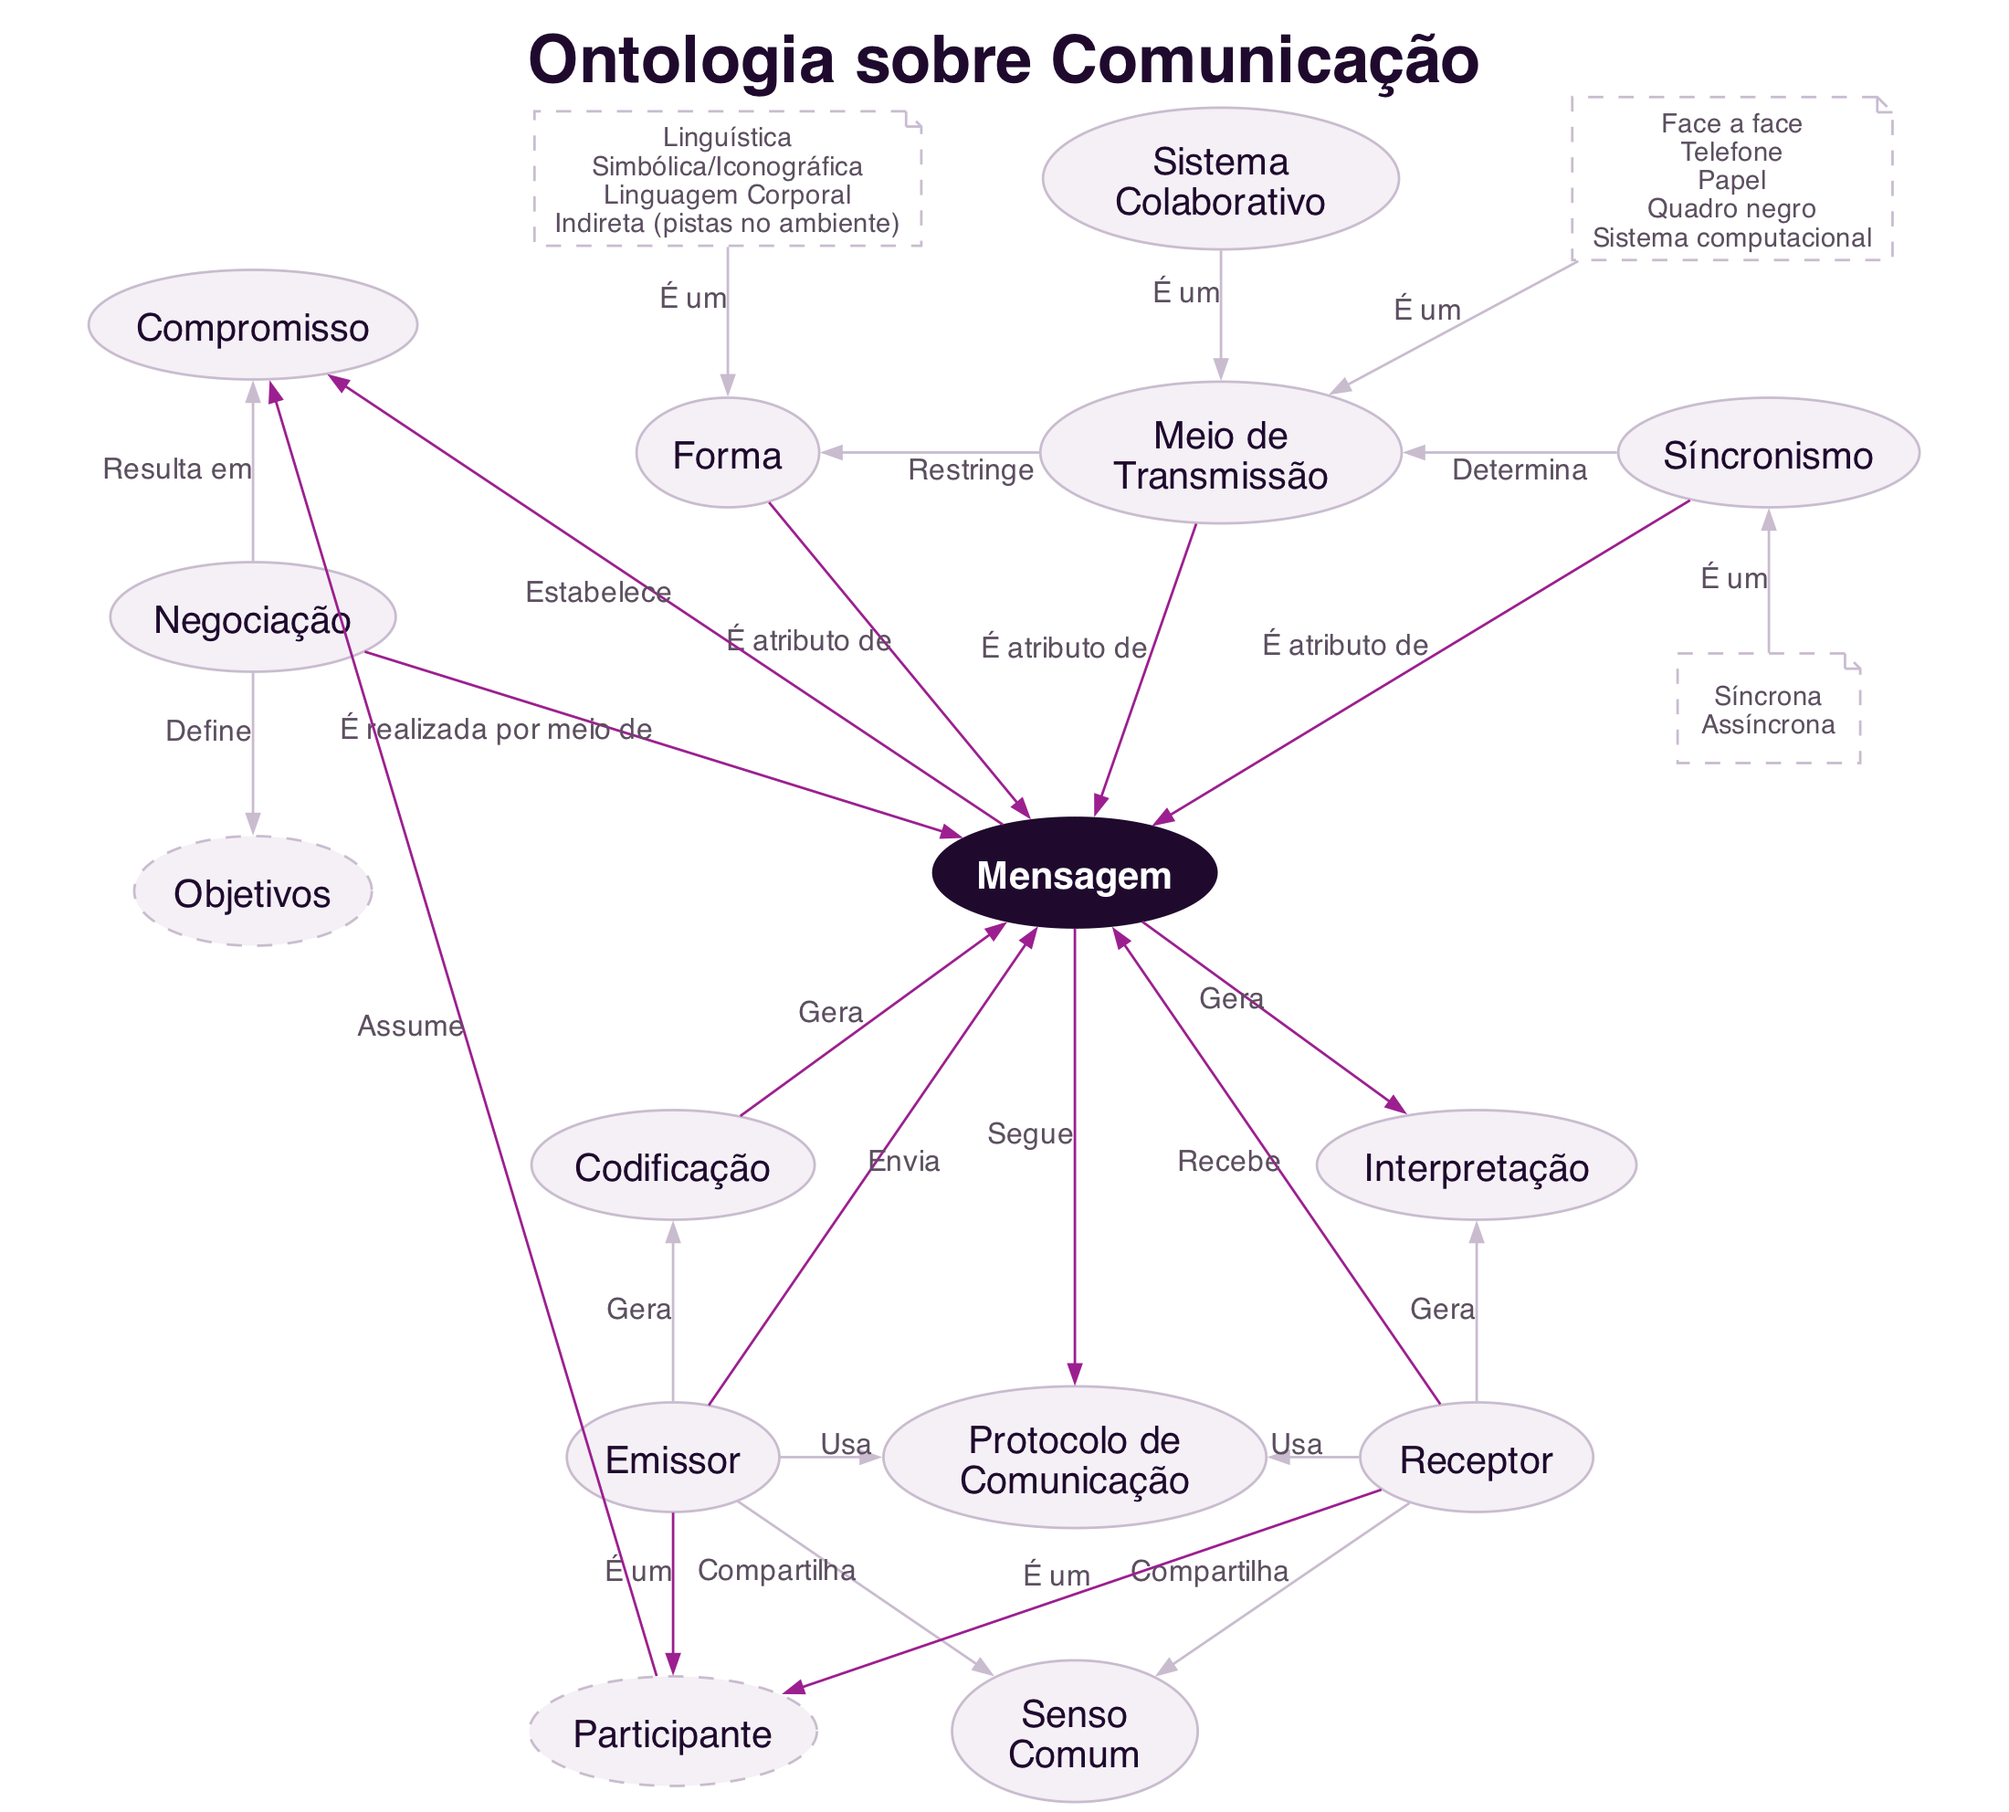
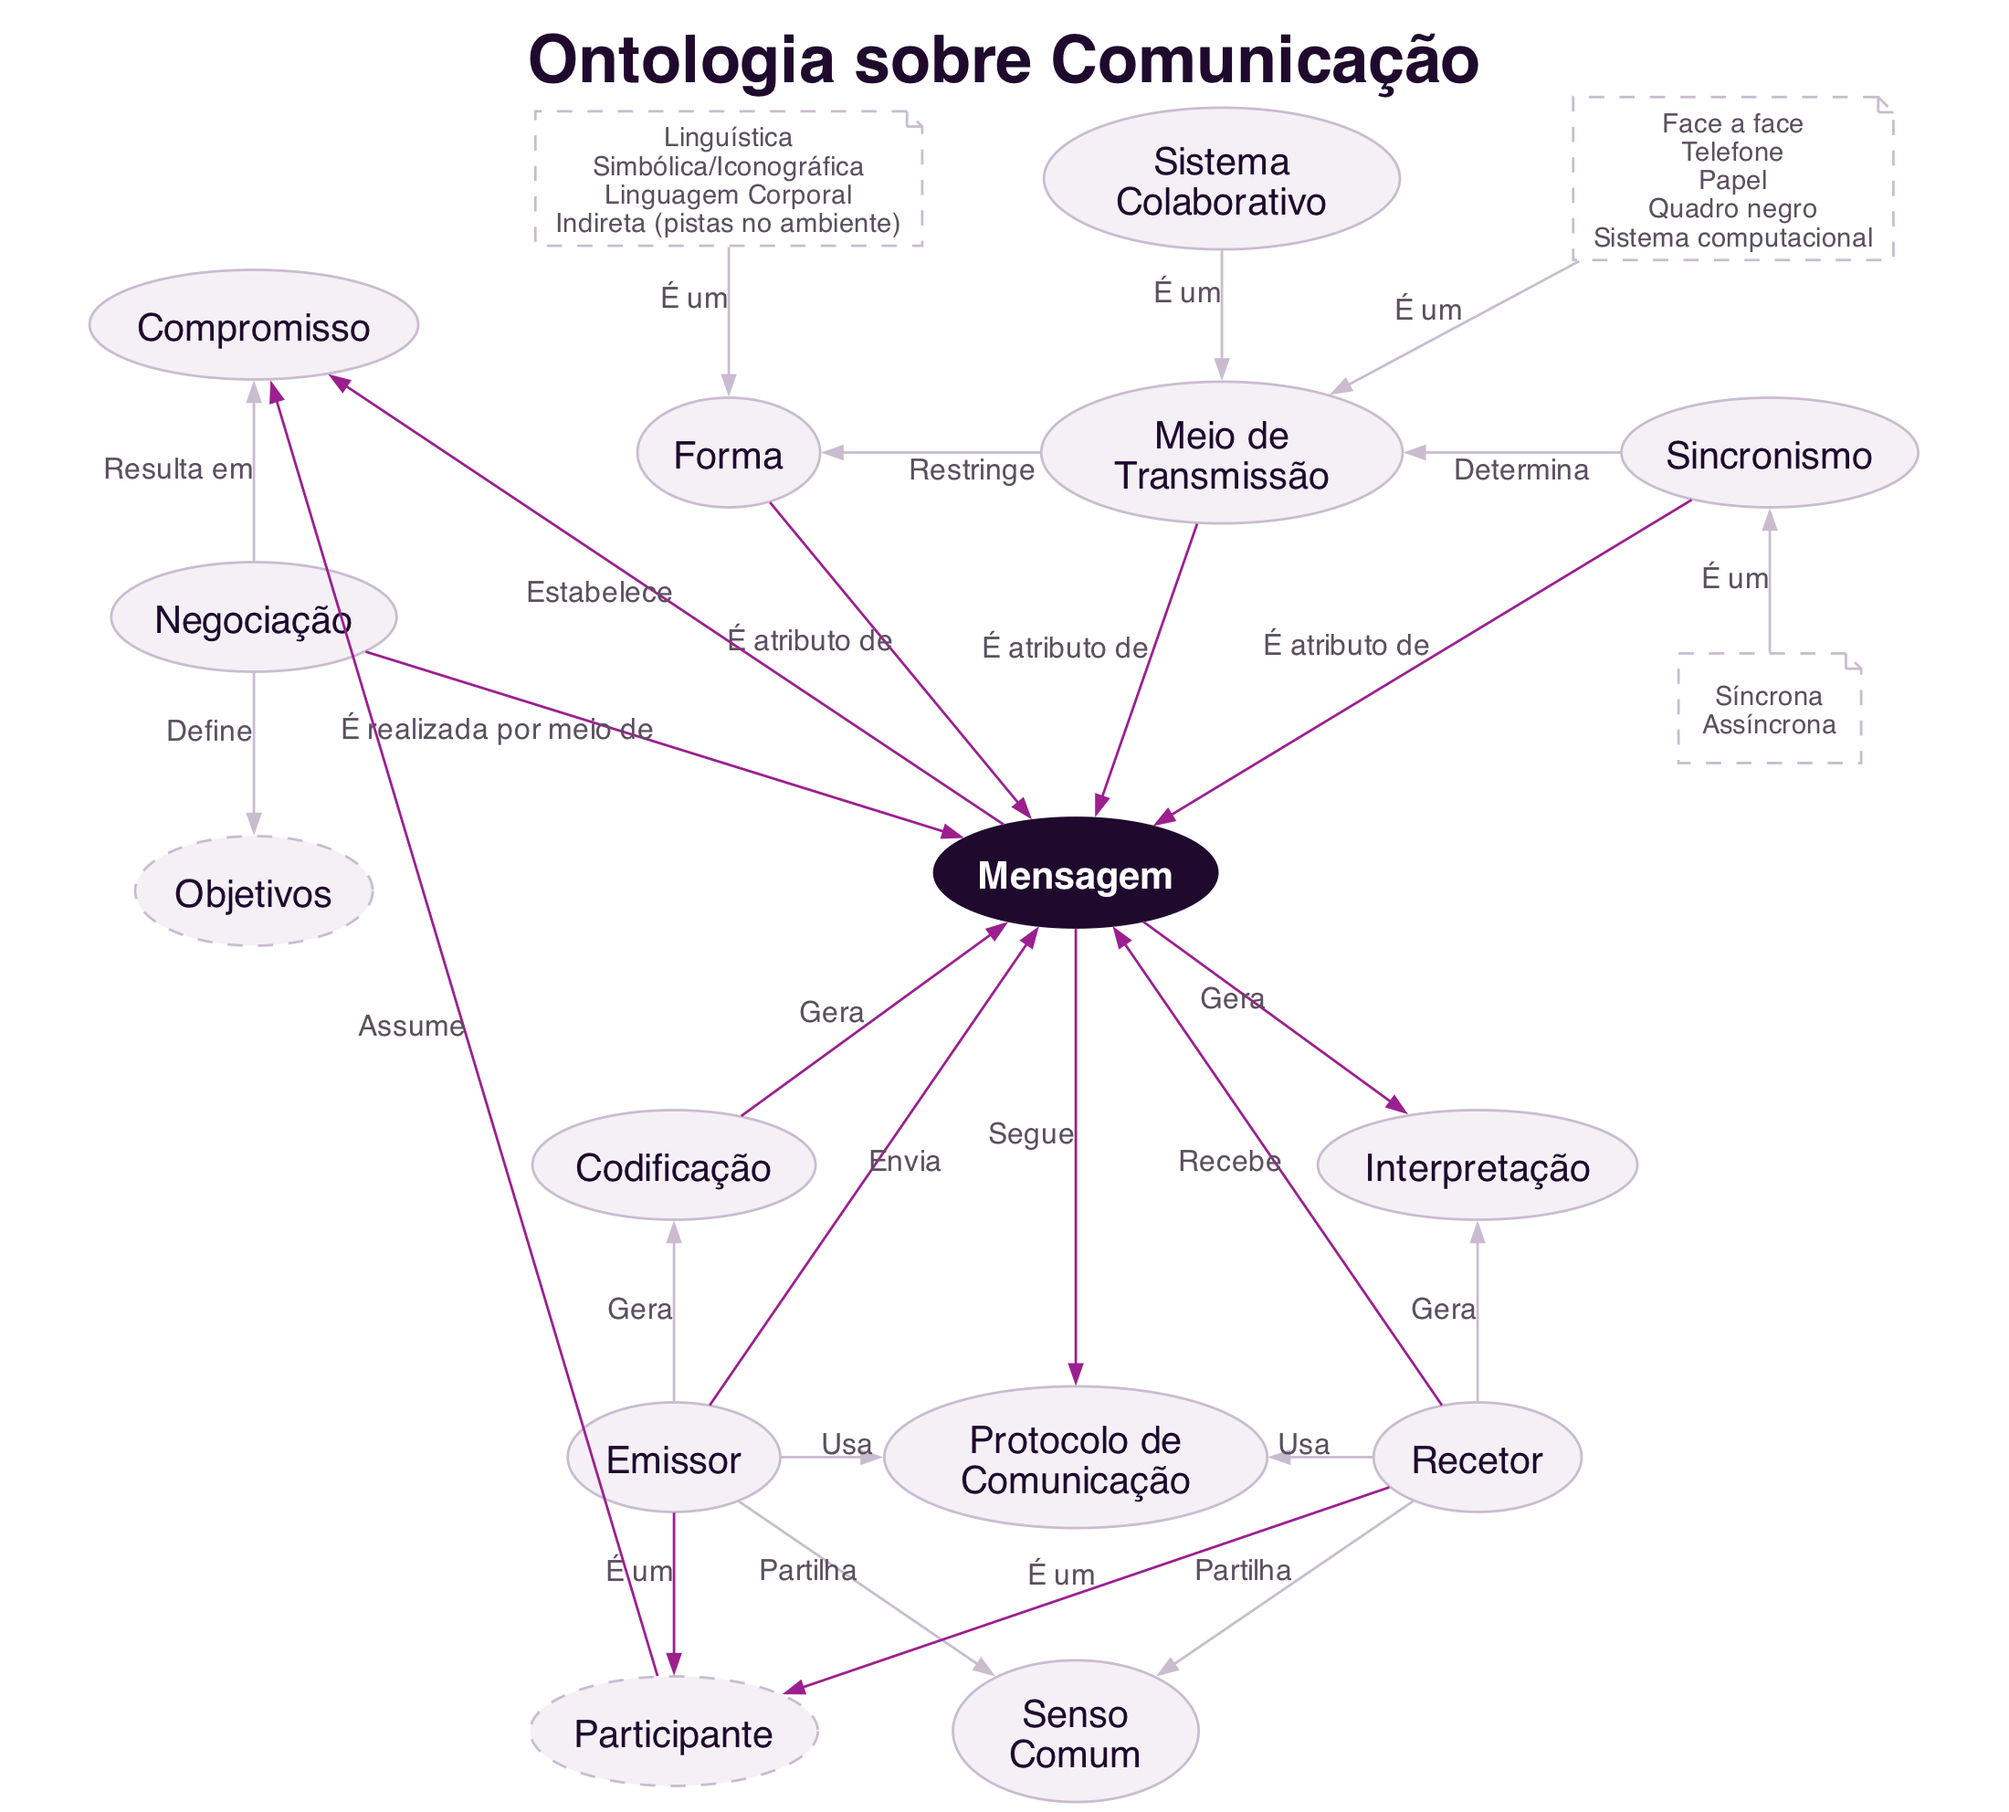
Cap04: termos PT-PT nas figuras das ontologias (Partilhado, Artefacto, Estado, Apoia, Sincronismo, Recetor)

diff --git a/assets/scripts/make_cap04_ontologia_cooperacao.py b/assets/scripts/make_cap04_ontologia_cooperacao.py
@@ -4,14 +4,14 @@ from graphviz_utils import build_dot, render
 from sebenta_style import DARK
 
 nodes = {
-    "DistribGeoEx":      ("Co-localizado\nRemoto", 0.4, 6.6, False, False, True),
+    "DistribGeoEx":      ("Colocalizado\nRemoto", 0.4, 6.6, False, False, True),
     "DistribGeo":        ("Distribuição\nGeográfica", 2.4, 6.0, False, False),
     "Grupo":             ("Grupo", 5.4, 6.0, True, False),
     "SistemaColab":      ("Sistema\nColaborativo", 9.2, 6.0, False, False),
 
     "Acoplamento":       ("Acoplamento", 0.9, 4.2, True, False),
     "Atividade":         ("Atividade", 2.9, 4.2, False, True),
-    "EspacoCompart":     ("Espaço\nCompartilhado", 9.2, 4.2, False, False),
+    "EspacoCompart":     ("Espaço\nPartilhado", 9.2, 4.2, False, False),
 
     "Participante":      ("Participante", 0.9, 2.6, True, False),
     "Objetivo":          ("Objetivo", 5.0, 2.6, True, False),
@@ -19,11 +19,11 @@ nodes = {
 
     "Prazo":             ("Prazo", 0.9, 1.0, True, False),
     "Tarefa":            ("Tarefa", 2.9, 1.0, False, False),
-    "Artefato":          ("Artefato", 6.8, 1.0, False, False),
+    "Artefato":          ("Artefacto", 6.8, 1.0, False, False),
 
-    "Status":            ("Status\n(completude)", 0.9, -0.6, True, False),
-    "CompartilhamentoEx": ("Individual\nCompartilhado", 2.9, -2.1, False, False, True),
-    "Compartilhamento":  ("Compartilhamento", 2.9, -0.6, False, False),
+    "Status":            ("Estado\n(completude)", 0.9, -0.6, True, False),
+    "CompartilhamentoEx": ("Individual\nPartilhado", 2.9, -2.1, False, False, True),
+    "Compartilhamento":  ("Partilha", 2.9, -0.6, False, False),
     "Recurso":           ("Recurso", 6.8, -0.6, False, False),
     "RecursoEx":         ("Quadro Negro\nNotas\nTelefone\nPapel\nLápis", 6.8, -2.2, False, False, True),
 }

diff --git a/assets/scripts/make_cap04_ontologia_comunicacao.py b/assets/scripts/make_cap04_ontologia_comunicacao.py
@@ -17,7 +17,7 @@ nodes = {
     "MeioEx":        ("Face a face\nTelefone\nPapel\nQuadro negro\nSistema computacional",
                        9.4, 7.4, False, False, True),
 
-    "Sincronismo":   ("Síncronismo", 9.6, 5.9, False, False),
+    "Sincronismo":   ("Sincronismo", 9.6, 5.9, False, False),
     "SincronismoEx": ("Síncrona\nAssíncrona", 9.6, 4.5, False, False, True),
 
     "Mensagem":      ("Mensagem", 5.8, 3.6, False, True),
@@ -27,7 +27,7 @@ nodes = {
 
     "Emissor":       ("Emissor", 3.6, 0.4, False, False),
     "ProtocoloCom":  ("Protocolo de\nComunicação", 5.8, 0.4, False, False),
-    "Receptor":      ("Receptor", 8.0, 0.4, False, False),
+    "Receptor":      ("Recetor", 8.0, 0.4, False, False),
 
     "SensoComum":    ("Senso\nComum", 5.8, -1.1, False, False),
     "Participante":  ("Participante", 3.6, -1.1, True, False),
@@ -56,8 +56,8 @@ edges = [
     ("Receptor", "Interpretacao", "Gera", False),
     ("Emissor", "ProtocoloCom", "Usa", False),
     ("Receptor", "ProtocoloCom", "Usa", False),
-    ("Emissor", "SensoComum", "Compartilha", False),
-    ("Receptor", "SensoComum", "Compartilha", False),
+    ("Emissor", "SensoComum", "Partilha", False),
+    ("Receptor", "SensoComum", "Partilha", False),
     ("Emissor", "Participante", "É um", True),
     ("Receptor", "Participante", "É um", True),
     ("Participante", "Compromisso", "Assume", True),

diff --git a/assets/scripts/make_cap04_ontologia_coordenacao.py b/assets/scripts/make_cap04_ontologia_coordenacao.py
@@ -5,7 +5,7 @@ from sebenta_style import DARK
 
 nodes = {
     "Participante":     ("Participante", 5.2, 6.8, True, False),
-    "AcoplamentoEx":     ("Individual\nRepasse de tarefas\nOrquestrado", 8.8, 6.3, False, False, True),
+    "AcoplamentoEx":     ("Individual\nPassagem de tarefas\nOrquestrado", 8.8, 6.3, False, False, True),
 
     "SistemaColab":      ("Sistema\nColaborativo", 1.3, 5.2, False, False),
     "Negociacao":        ("Negociação", 3.5, 5.2, True, False),
@@ -22,12 +22,12 @@ nodes = {
     "Recurso":           ("Recurso", 7.7, 1.6, True, False),
 
     "Acompanhamento":    ("Acompanhamento", 1.3, 0.0, False, False),
-    "Status":            ("Status\n(completude)", 4.0, 0.0, False, False),
+    "Status":            ("Estado\n(completude)", 4.0, 0.0, False, False),
     "Tarefa":            ("Tarefa", 7.7, 0.0, True, False),
 }
 
 edges = [
-    ("SistemaColab", "PlanoTrabalho", "Apóia", False),
+    ("SistemaColab", "PlanoTrabalho", "Apoia", False),
     ("Negociacao", "PlanoTrabalho", "Estabelece", False),
     ("PlanoTrabalho", "Papel", "Define", True),
     ("PlanoTrabalho", "Acoplamento", "Define", True),
